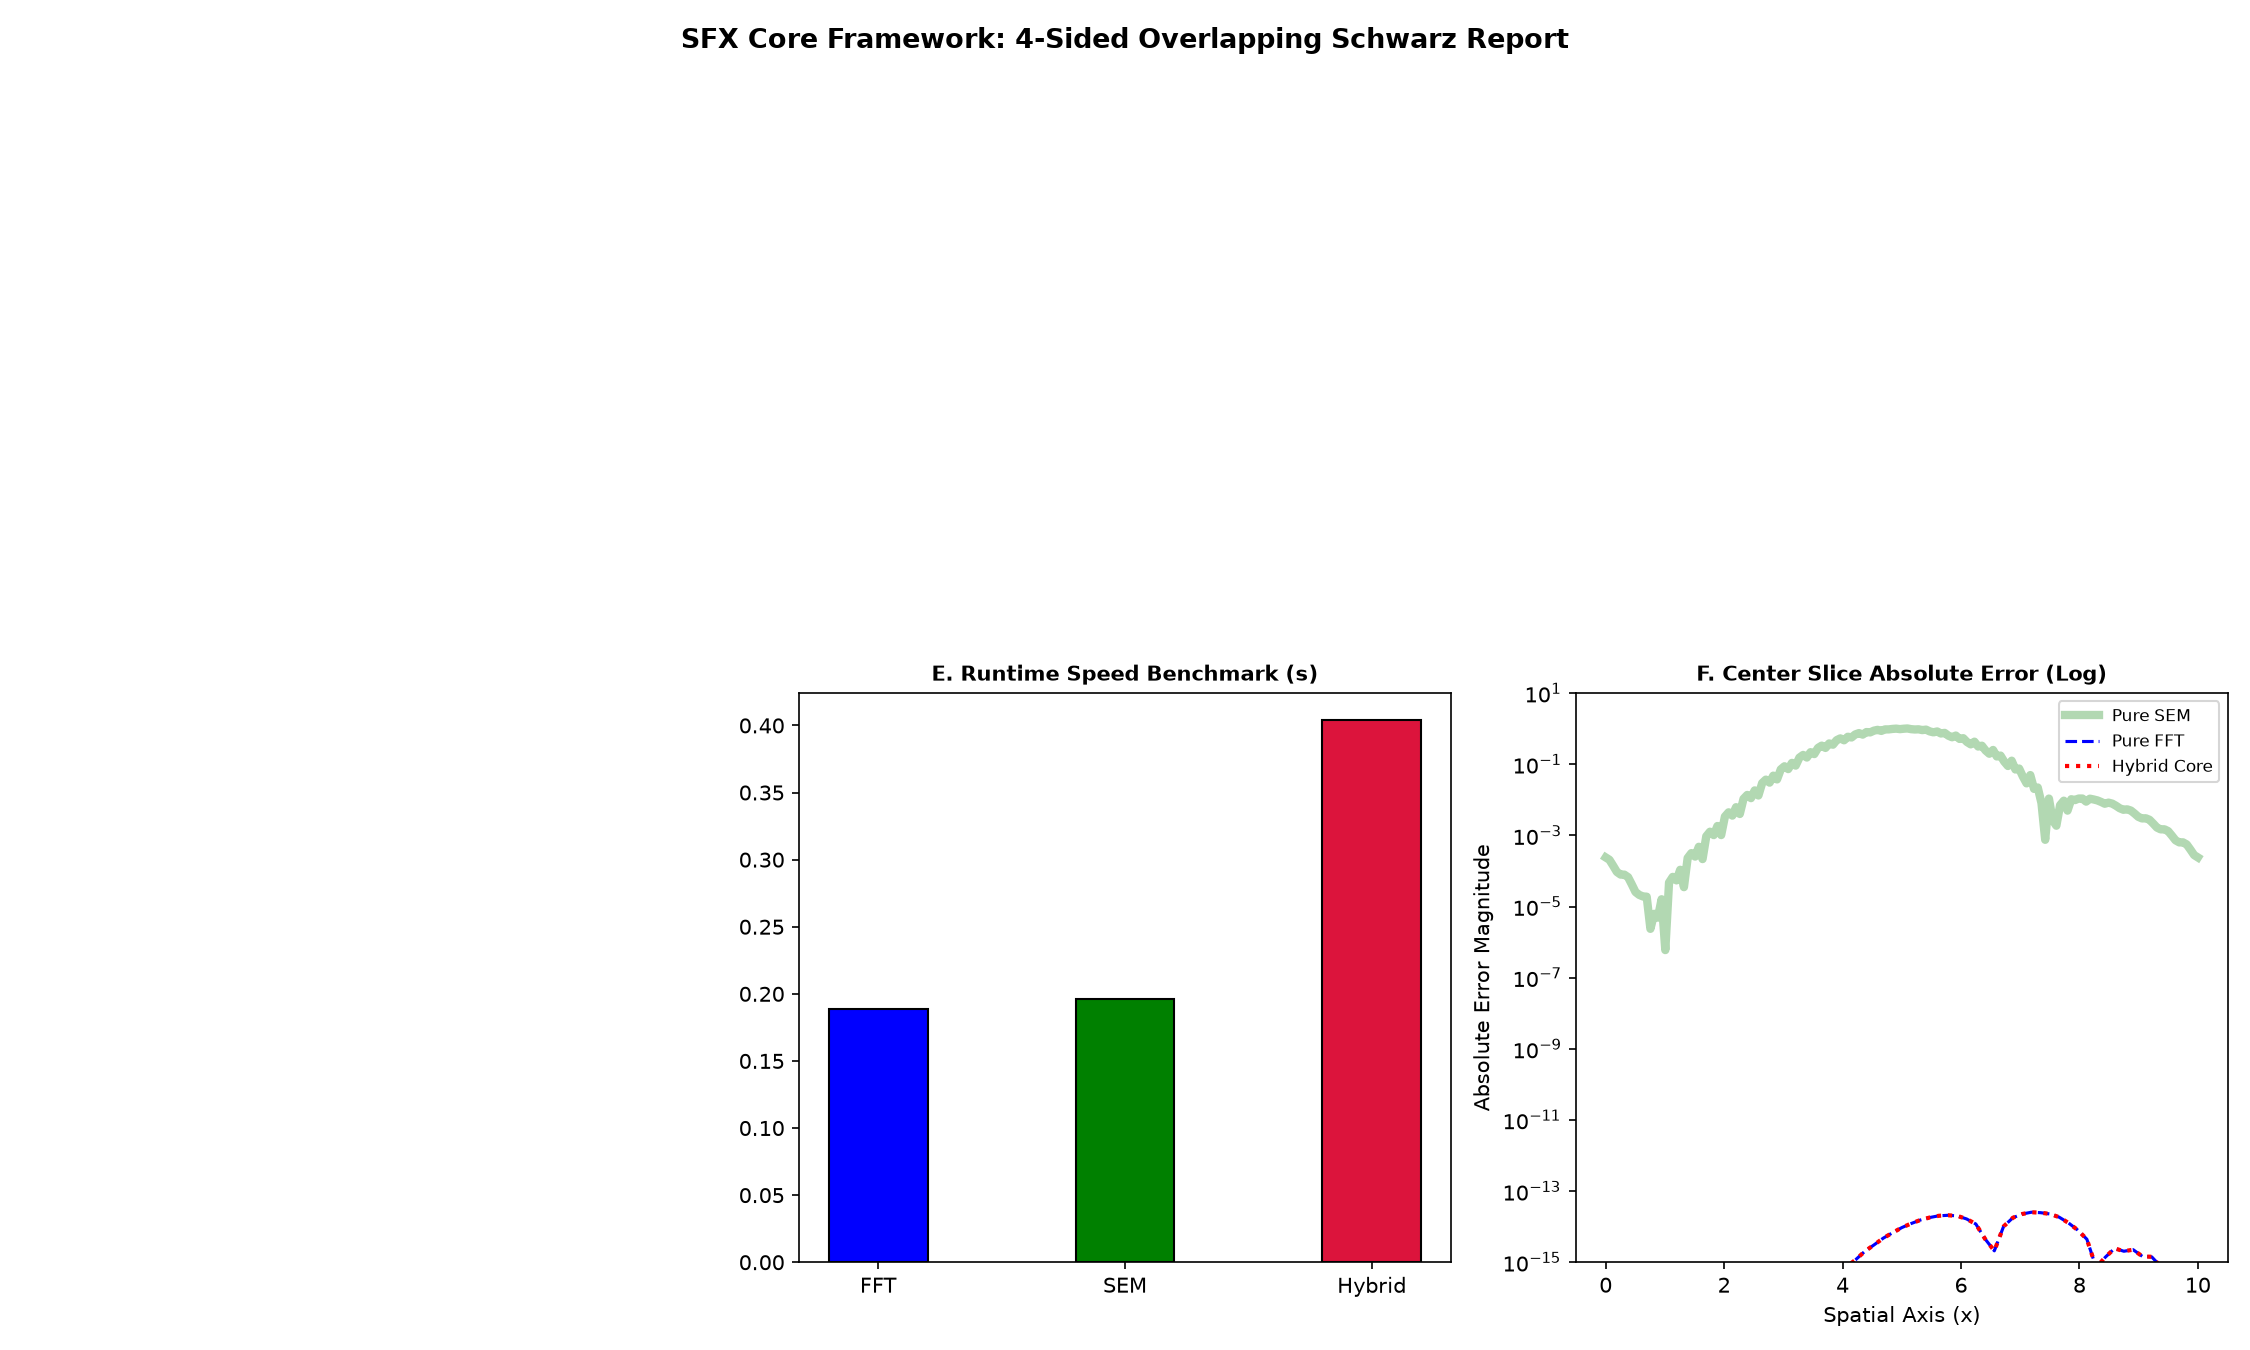
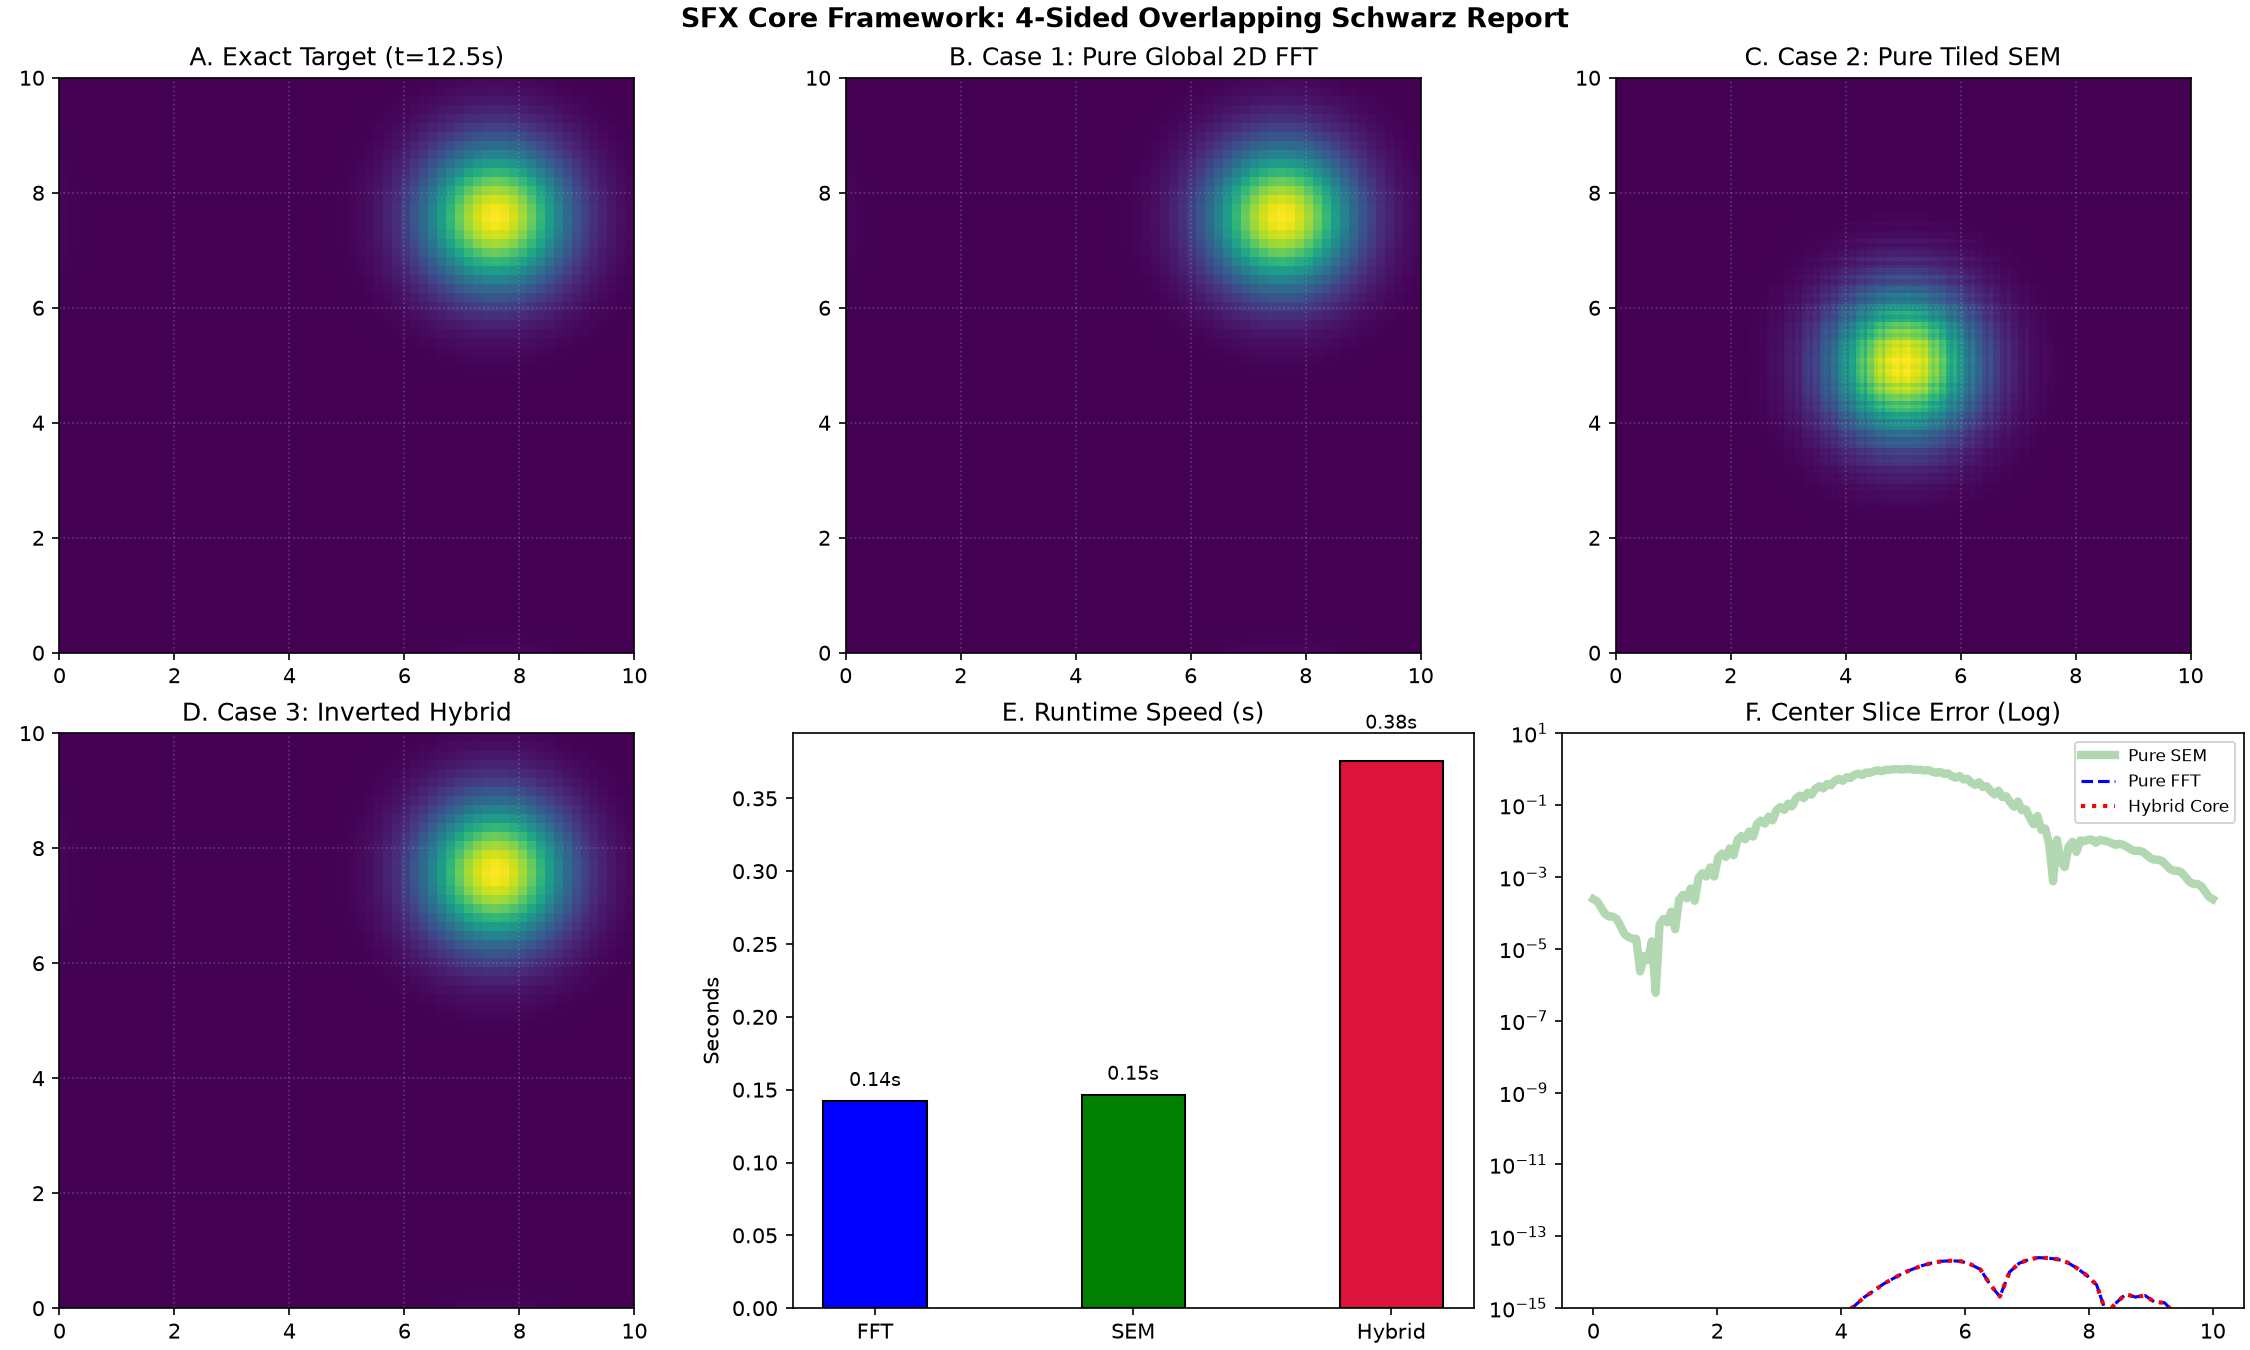
update diag plot module

diff --git a/plots/diagnostics.py b/plots/diagnostics.py
@@ -7,46 +7,65 @@ def plot_sfx_dashboard(
     u_hyb_fft, err_fft, err_sem, err_hyb, 
     t_fft, t_sem, t_hyb 
 ):
-    # Use Agg (non-interactive) to prevent GUI 'grab' crashes
-    plt.switch_backend('Agg') 
+    # 1. Force Agg backend to prevent Tkinter 'grab' crashes
+    plt.switch_backend('Agg')
     
-    fig = plt.figure(figsize=(15, 9))
+    # 2. Use constrained_layout=True instead of tight_layout()
+    # This automatically manages spacing without deleting overlapping axes
+    fig = plt.figure(figsize=(15, 9), constrained_layout=True)
     grid = plt.GridSpec(2, 3, figure=fig)
     cmap_choice = 'viridis'
 
-    # A, B, C, D: Image plots (kept as you had them)
-    # ... [Keep your existing ax0, ax1, ax2, ax3 imshow code here] ...
+    # A. Exact
+    ax0 = fig.add_subplot(grid[0, 0])
+    ax0.imshow(u_exact_shifted, extent=[0, L, 0, L], origin='lower', cmap=cmap_choice, vmin=0, vmax=1)
+    ax0.set_title('A. Exact Target (t=12.5s)')
+
+    # B. FFT
+    ax1 = fig.add_subplot(grid[0, 1])
+    ax1.imshow(u_fft, extent=[0, L, 0, L], origin='lower', cmap=cmap_choice, vmin=0, vmax=1)
+    ax1.set_title('B. Case 1: Pure Global 2D FFT')
+
+    # C. SEM
+    ax2 = fig.add_subplot(grid[0, 2])
+    ax2.imshow(u_sem, extent=[0, L, 0, L], origin='lower', cmap=cmap_choice, vmin=0, vmax=1)
+    ax2.set_title('C. Case 2: Pure Tiled SEM')
+
+    # D. Hybrid
+    ax3 = fig.add_subplot(grid[1, 0])
+    ax3.imshow(u_hyb_fft, extent=[0, L, 0, L], origin='lower', cmap=cmap_choice, vmin=0, vmax=1)
+    ax3.set_title('D. Case 3: Inverted Hybrid')
 
     # E. Runtime bars
     ax4 = fig.add_subplot(grid[1, 1])
     bars = ax4.bar(['FFT', 'SEM', 'Hybrid'], [t_fft, t_sem, t_hyb], color=['blue', 'green', 'crimson'], width=0.4, edgecolor='k')
-    ax4.set_title('E. Runtime Speed Benchmark (s)', fontsize=10, fontweight='bold')
-    
-    # F. Error slice (FIXED ORDER)
+    ax4.set_title('E. Runtime Speed (s)')
+    ax4.set_ylabel('Seconds')
+    for bar in bars:
+        ax4.text(bar.get_x() + bar.get_width()/2., bar.get_height() * 1.05, f"{bar.get_height():.2f}s", ha='center', va='bottom', fontsize=9)
+
+    # F. Error slice
     ax5 = fig.add_subplot(grid[1, 2])
     x_vector = X_fft[0, :]
-    mid_fft = u_fft.shape[0] // 2
-    mid_sem = u_sem.shape[0] // 2
+    mid_idx = u_fft.shape[0] // 2
     
-    # PLOT SEM FIRST (Thick/Transparent so it doesn't block precision lines)
-    ax5.plot(jnp.linspace(0, L, u_sem.shape[0]), err_sem[mid_sem, :], 
-             'g-', alpha=0.3, linewidth=4, label='Pure SEM')
+    # Plot SEM first (transparency), then precision lines on top
+    ax5.semilogy(jnp.linspace(0, L, u_sem.shape[0]), err_sem[u_sem.shape[0]//2, :], 
+                 'g-', alpha=0.3, linewidth=4, label='Pure SEM')
+    ax5.semilogy(x_vector, err_fft[mid_idx, :], 'b--', linewidth=1.5, label='Pure FFT')
+    ax5.semilogy(x_vector, err_hyb[mid_idx, :], 'r:', linewidth=2.0, label='Hybrid Core')
     
-    # PLOT FFT and HYBRID on top (Precision lines)
-    ax5.plot(x_vector, err_fft[mid_fft, :], 'b--', linewidth=1.5, label='Pure FFT')
-    ax5.plot(x_vector, err_hyb[mid_fft, :], 'r:', linewidth=2.0, label='Hybrid Core')
-    
-    ax5.set_yscale('log')
     ax5.set_ylim(1e-15, 1e1)
-    ax5.set_title('F. Center Slice Absolute Error (Log)', fontsize=10, fontweight='bold')
-    ax5.set_xlabel('Spatial Axis (x)')
-    ax5.set_ylabel('Absolute Error Magnitude')
+    ax5.set_title('F. Center Slice Error (Log)')
     ax5.legend(loc='upper right', fontsize=8)
+
+    # Clean up formatting
+    for ax in [ax0, ax1, ax2, ax3]:
+        ax.grid(True, linestyle=':', alpha=0.3)
+        
+    plt.suptitle('SFX Core Framework: 4-Sided Overlapping Schwarz Report', fontsize=13, fontweight='bold')
     
-    plt.suptitle('SFX Core Framework: 4-Sided Overlapping Schwarz Report', fontsize=13, fontweight='bold', y=0.98)
-    plt.tight_layout()
-    
-    # CRITICAL: Save to disk instead of plt.show()
+    # Save instead of show
     plt.savefig("sfx_dashboard.png", dpi=150)
-    plt.close('all') # This kills the Tkinter backend properly
+    plt.close('all')
     print("Dashboard saved to sfx_dashboard.png")